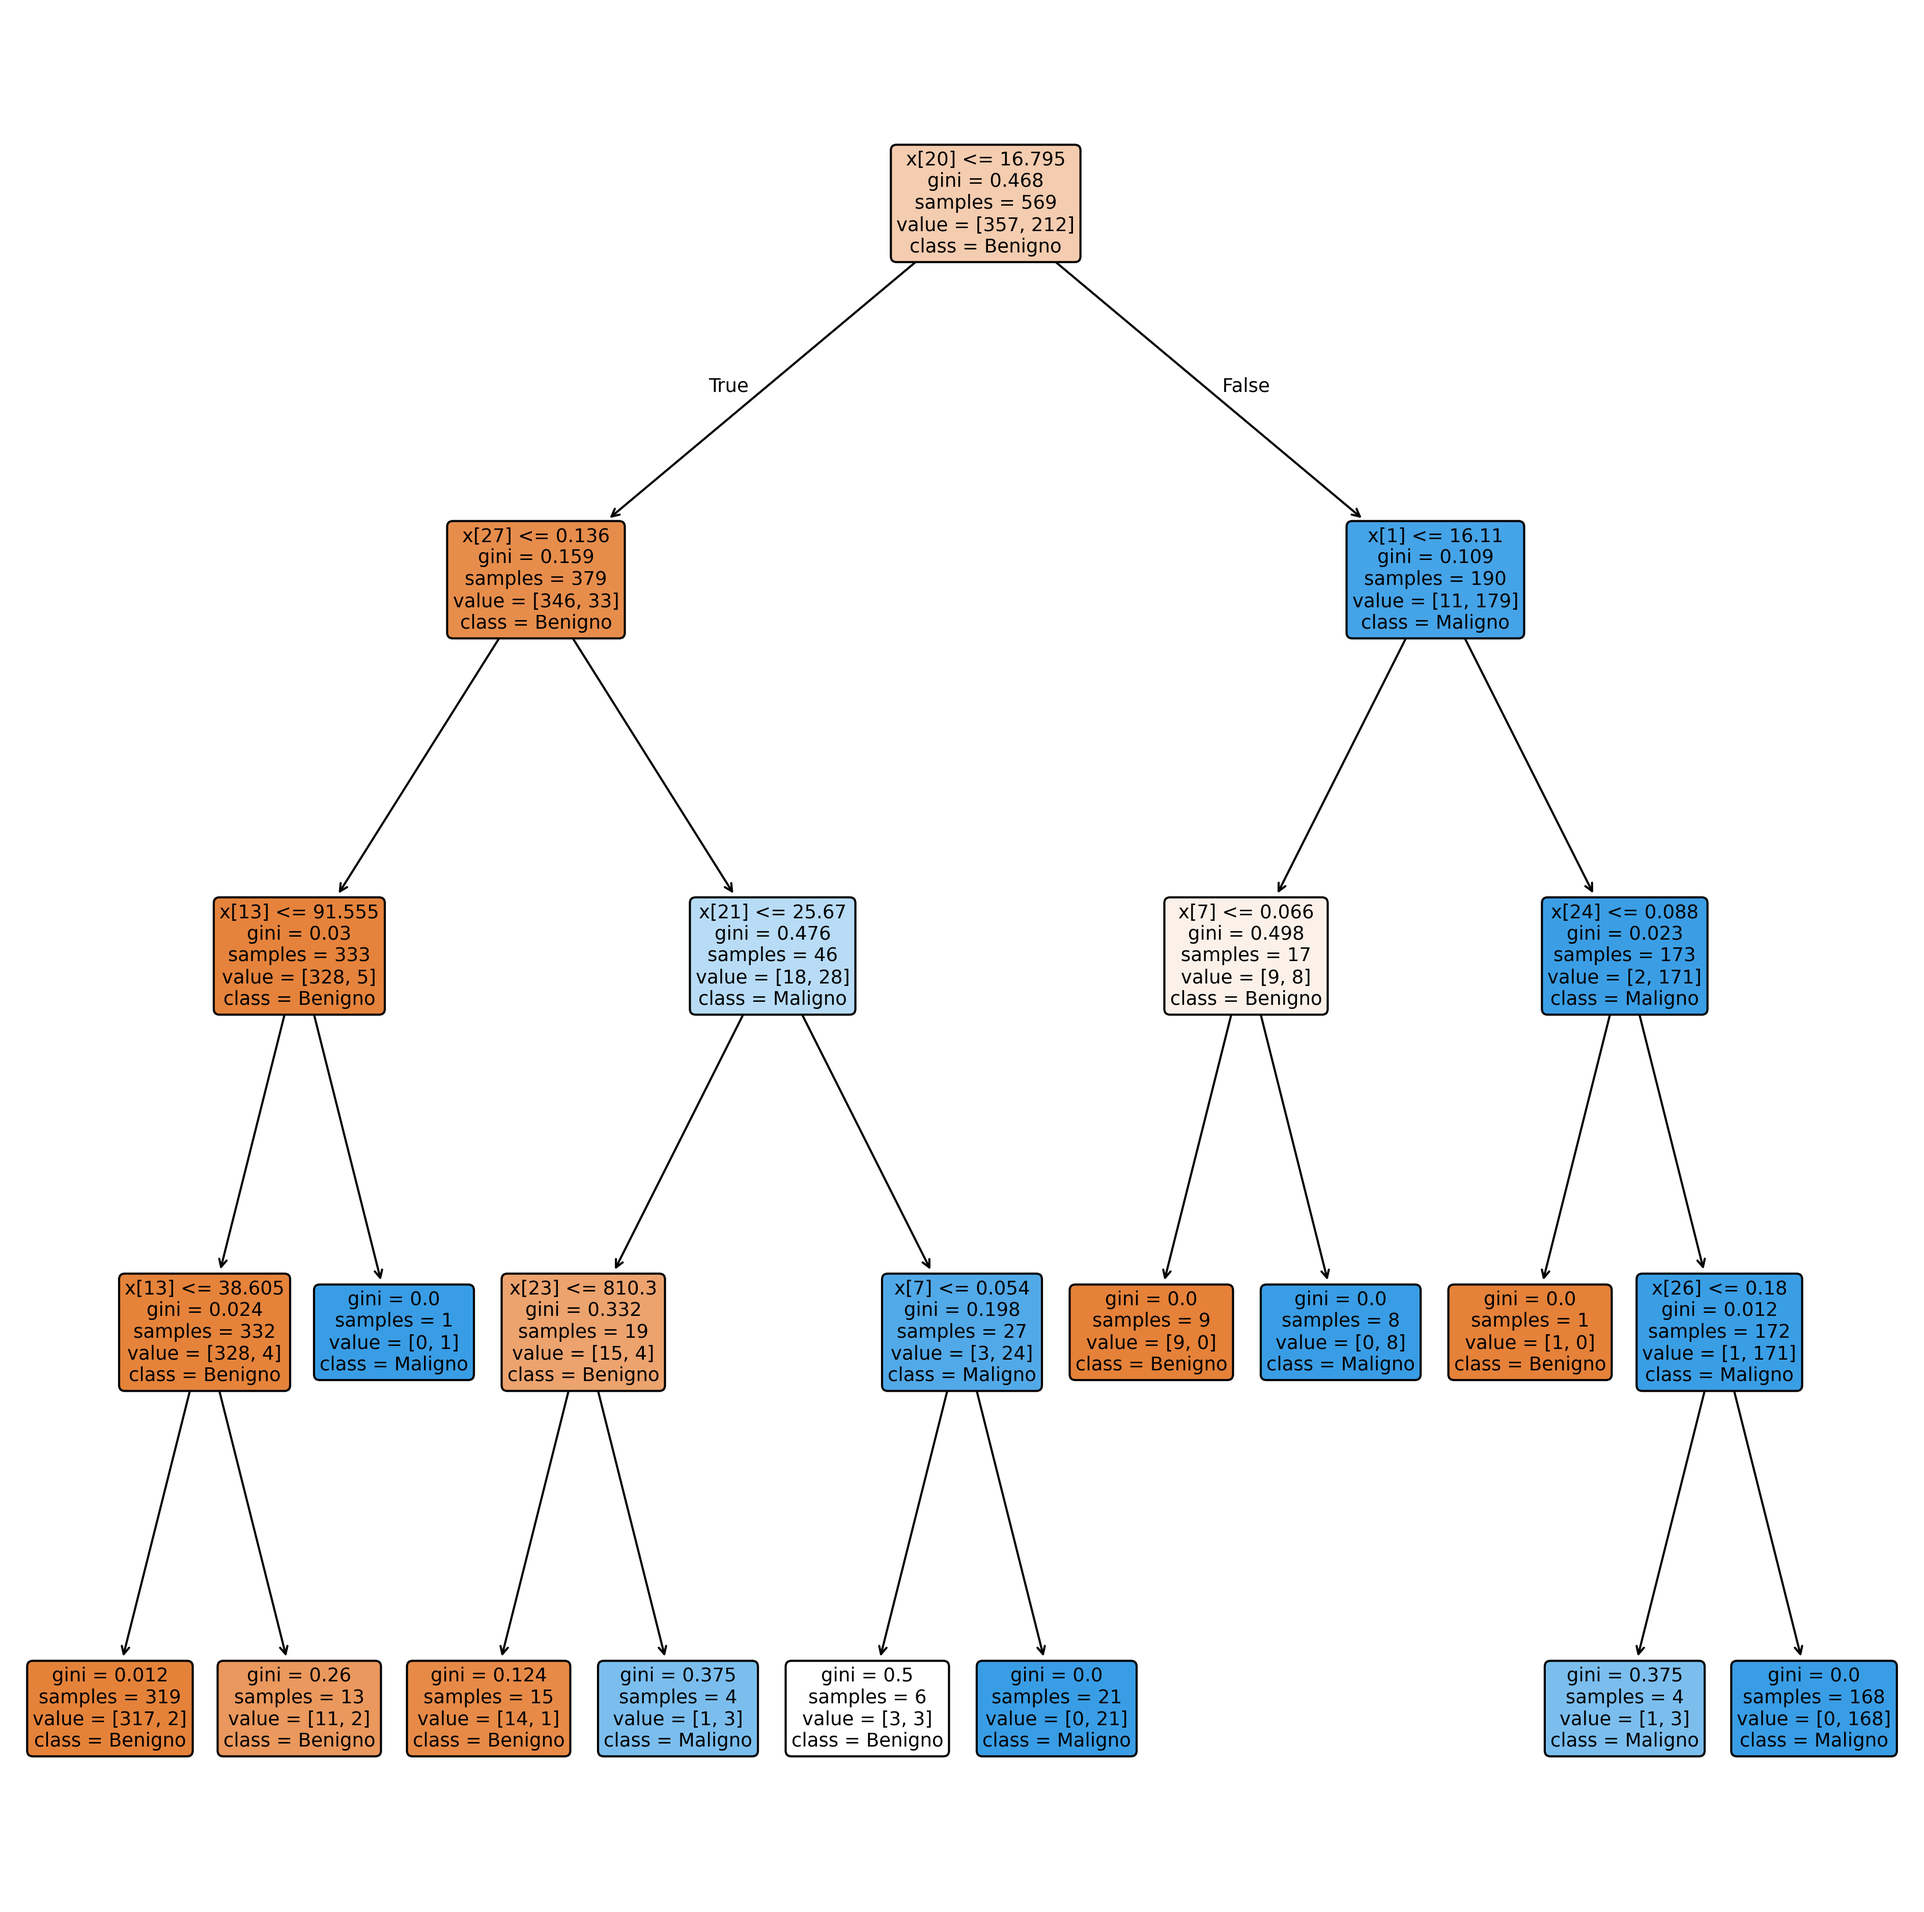
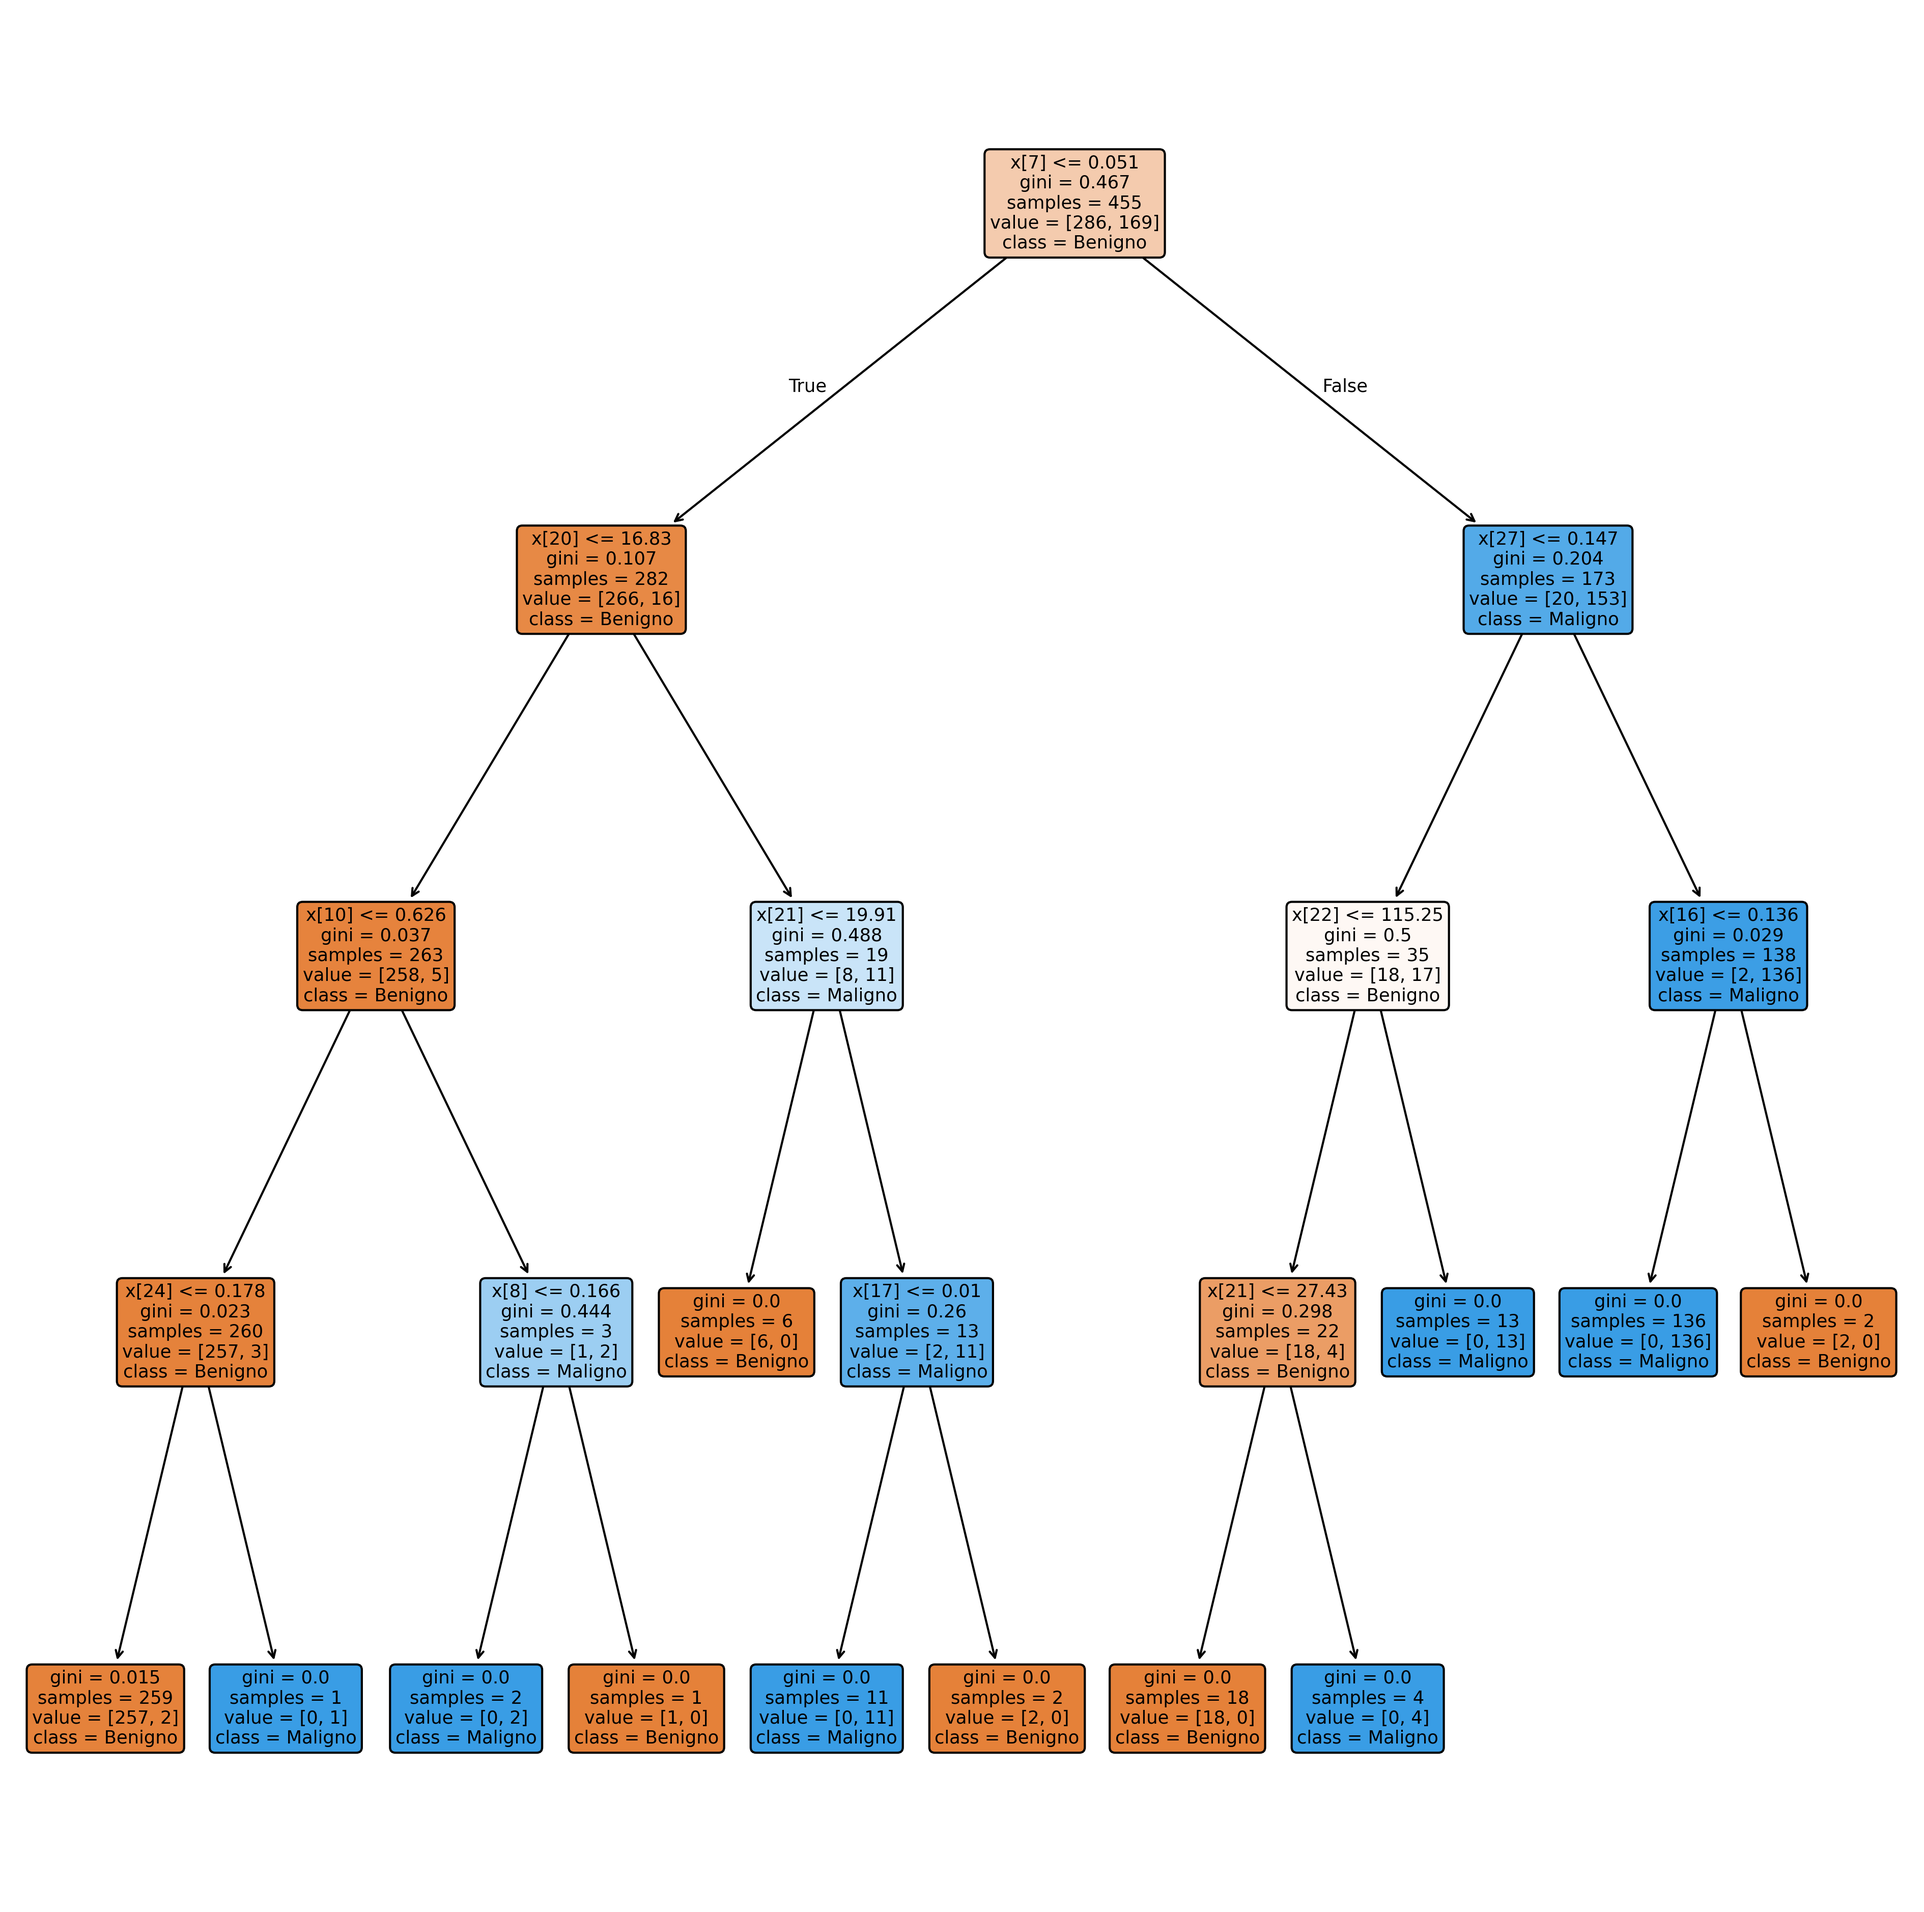
Se creó clase para instanciar predicciones y entrenamiento del modelo y de creó main.py para mostrar la información. Se creó metrics.py para visualizar arbol de forma gráfica

diff --git a/reports/metrics.py b/reports/metrics.py
@@ -5,6 +5,7 @@ from classes.Decision_Tree import Decision_Tree
 import pandas as pd
 import matplotlib.pyplot as plt
 from sklearn.tree import plot_tree
+from sklearn.model_selection import train_test_split
 
 # Cargar dataset
 dataset = pd.read_csv('../data/clear_dataset.csv')
@@ -15,7 +16,10 @@ def get_features(dataset):
     Y = dataset.iloc[:, 0]   # Variable dependiente
     return X, Y
 
-x_train, y_train = get_features(dataset)
+X, Y = get_features(dataset)
+
+# Dividir dataset
+x_train, x_test, y_train, y_test = train_test_split(X, Y, test_size=0.2, random_state=42)
 
 # Instanciar y entrenar modelo
 classifier_instance:Decision_Tree = Decision_Tree()
